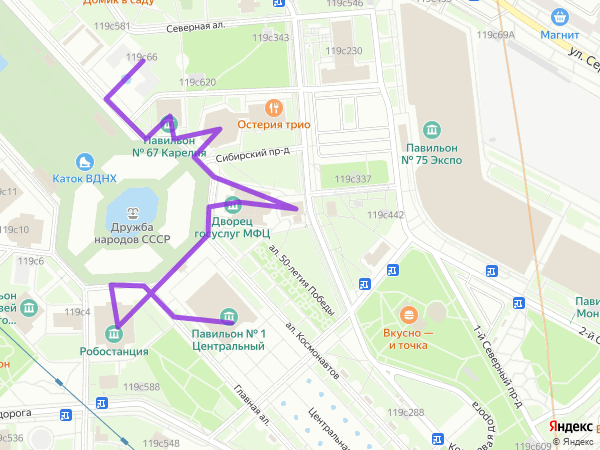
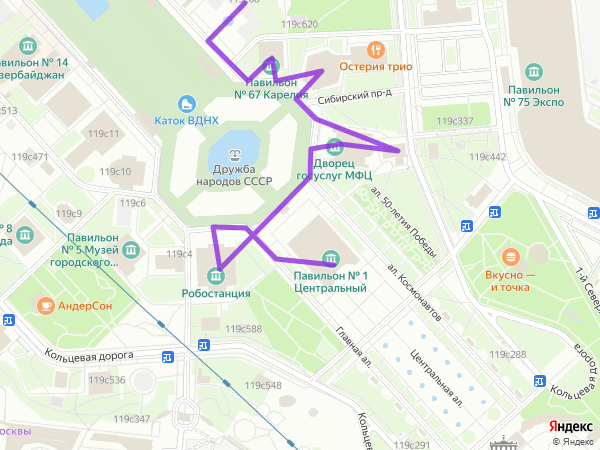
Final monday

diff --git a/templates/suggested_route.html b/templates/suggested_route.html
@@ -6,7 +6,11 @@
 
 {% block body%}
 
-<h1> {{ number }} </h1>
+{% if number < 10 %}
+       <h1> Маршрут № {{ number }} </h1>
+{% else %}
+       <h1> Пользовательский маршрут </h1>
+{% endif %}
 
 
 <img src="{{ file_map }}" width=”500″ height=”600″ alt='маршрут {{ number }}'>

diff --git a/main.py b/main.py
@@ -72,8 +72,8 @@ def creareroute():
         file.close()
 
         create_map('route_description/11.txt', spn='0.01,0.01')
-        values = {"number": '11',
-                  "file_map": "../static/" + '11' + ".png"}
+        values = {"number": 11,
+                  "file_map": "../static/11.png"}
         return render_template("suggested_route.html", **values)
 
 
